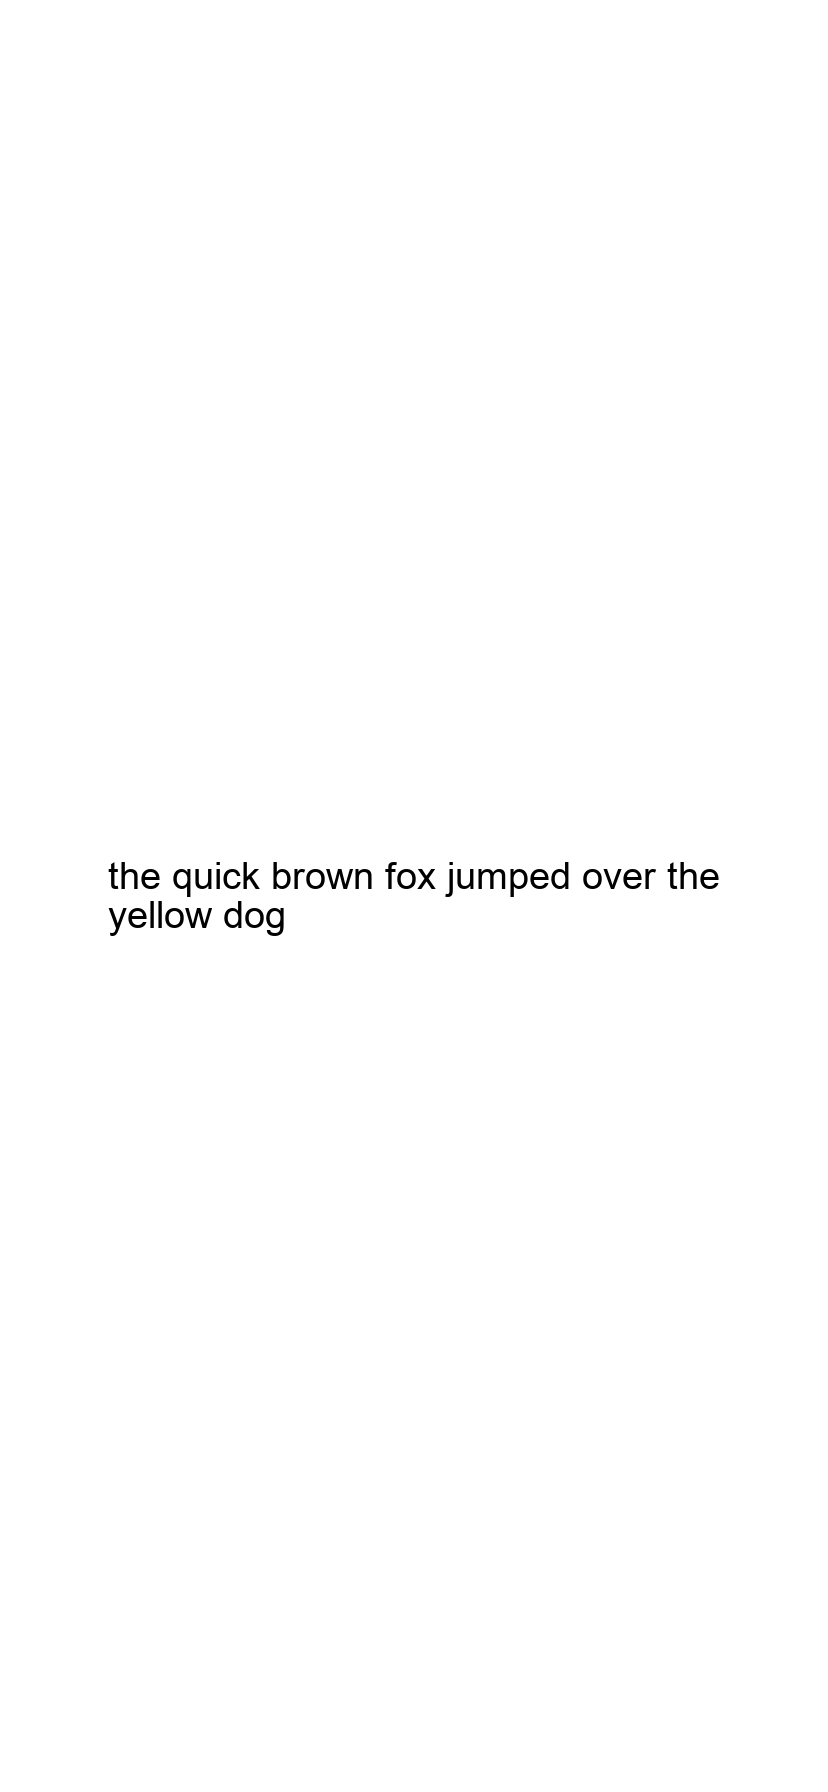
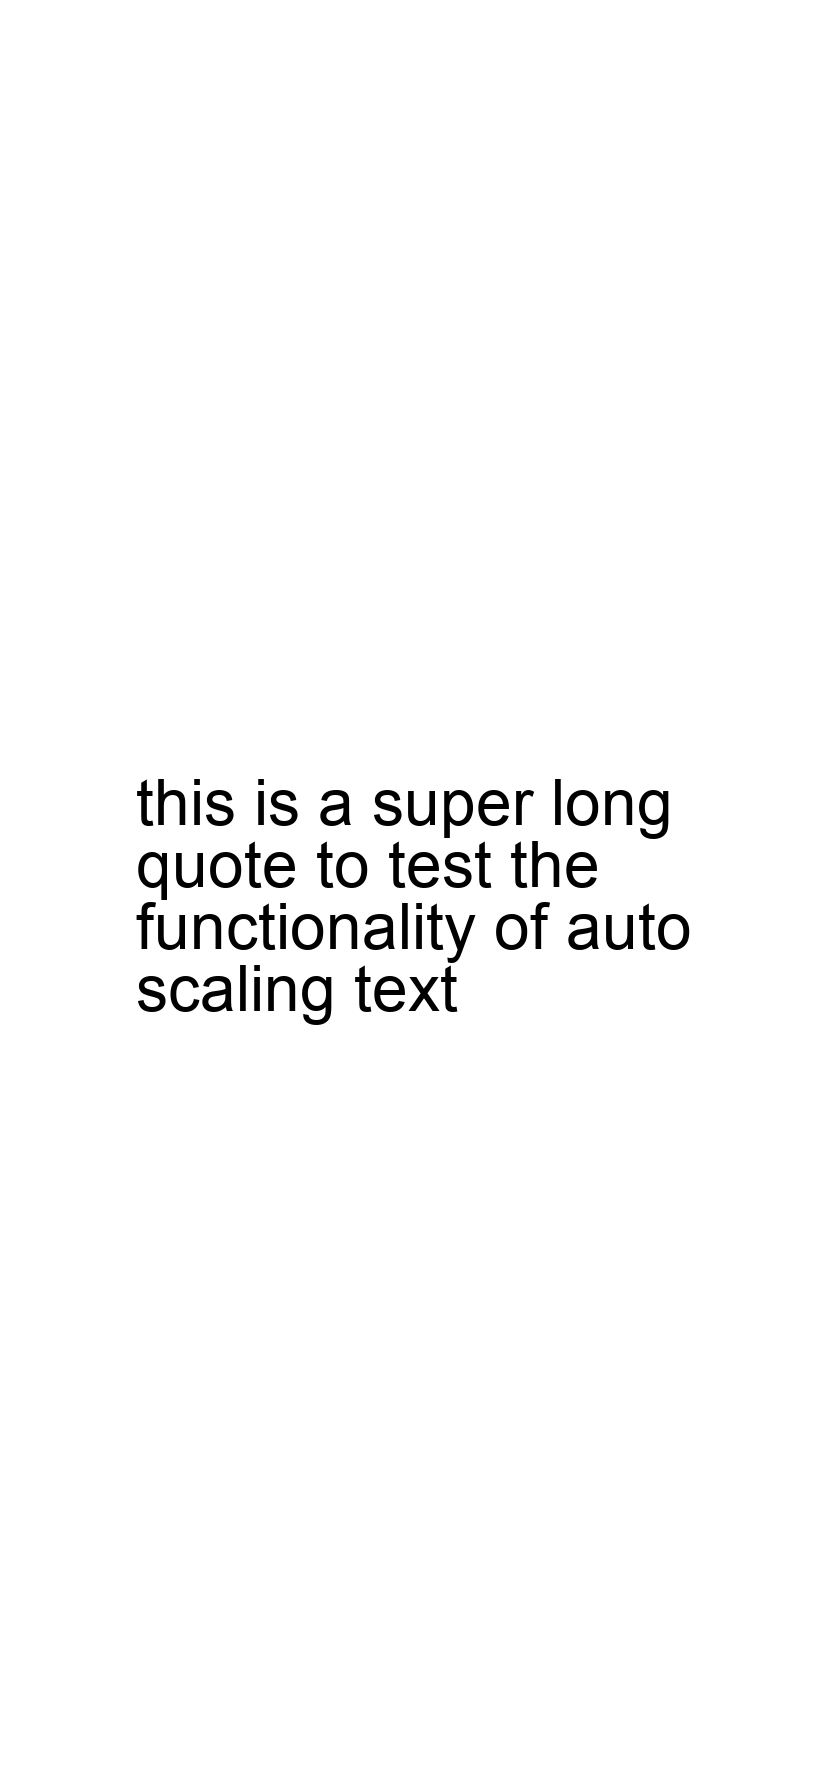
fixed text scaling in addition to json

Changed region(s): [[0.1208, 0.4375, 0.8756, 0.5938]]

diff --git a/main.py b/main.py
@@ -43,7 +43,7 @@ def get_wrapped_text(text: str, font: ImageFont.ImageFont,
                 lines[-1] = line
             else:
                 lines.append(word)
-        return '\n'.join(lines)
+        return '\n'.join(lines), len(lines)
 
 
 
@@ -62,11 +62,9 @@ for item in selection:
 hi = get_len()-1
 
 
-selected = random.randint(0, hi)
-ttp = paths[hi][-1]
-ttp = "the quick brown fox jumped over the yellow dog"
-
-
+selected = random.randint(0, len(cat_item)-1)
+print(selected)
+ttp = cat_item[selected][1]
 
 char_len = len(ttp)
 width = 828
@@ -75,24 +73,34 @@ height = 1792
 im = Image.new("RGB", (width, height), "white")
 draw = ImageDraw.Draw(im)
 
-print(char_len)
-
-font_size = int((height / char_len))
+#font_size = int((height / char_len))
+font_size = 1000
 font = ImageFont.truetype("Arial.ttf", font_size)
-print(font_size)
-ttp = get_wrapped_text(ttp, font, line_length=660)
+
+
 text = ttp
-
-
 while font_size > 1:
-  if font.getlength(text) < width:
+  if font.getlength(text) < width*.6:
     break
   font_size -= 1
   font = font.font_variant(size=font_size)
 
+print(font_size)
+print(width/font_size)
+print((width/font_size))
+text, text_l = get_wrapped_text(text, font, line_length=((10*font_size)))
+print(text_l)
+
+if text_l == 2:
+    font = font.font_variant(size=font_size*1.33)
+
+elif text_l > 2:
+    font = font.font_variant(size=font_size*text_l)
+
 draw.multiline_text((width / 2, height / 2), text, font=font, fill="black", anchor="mm")
 im.save("out.png")
 
+print(selection)
 
 
 
